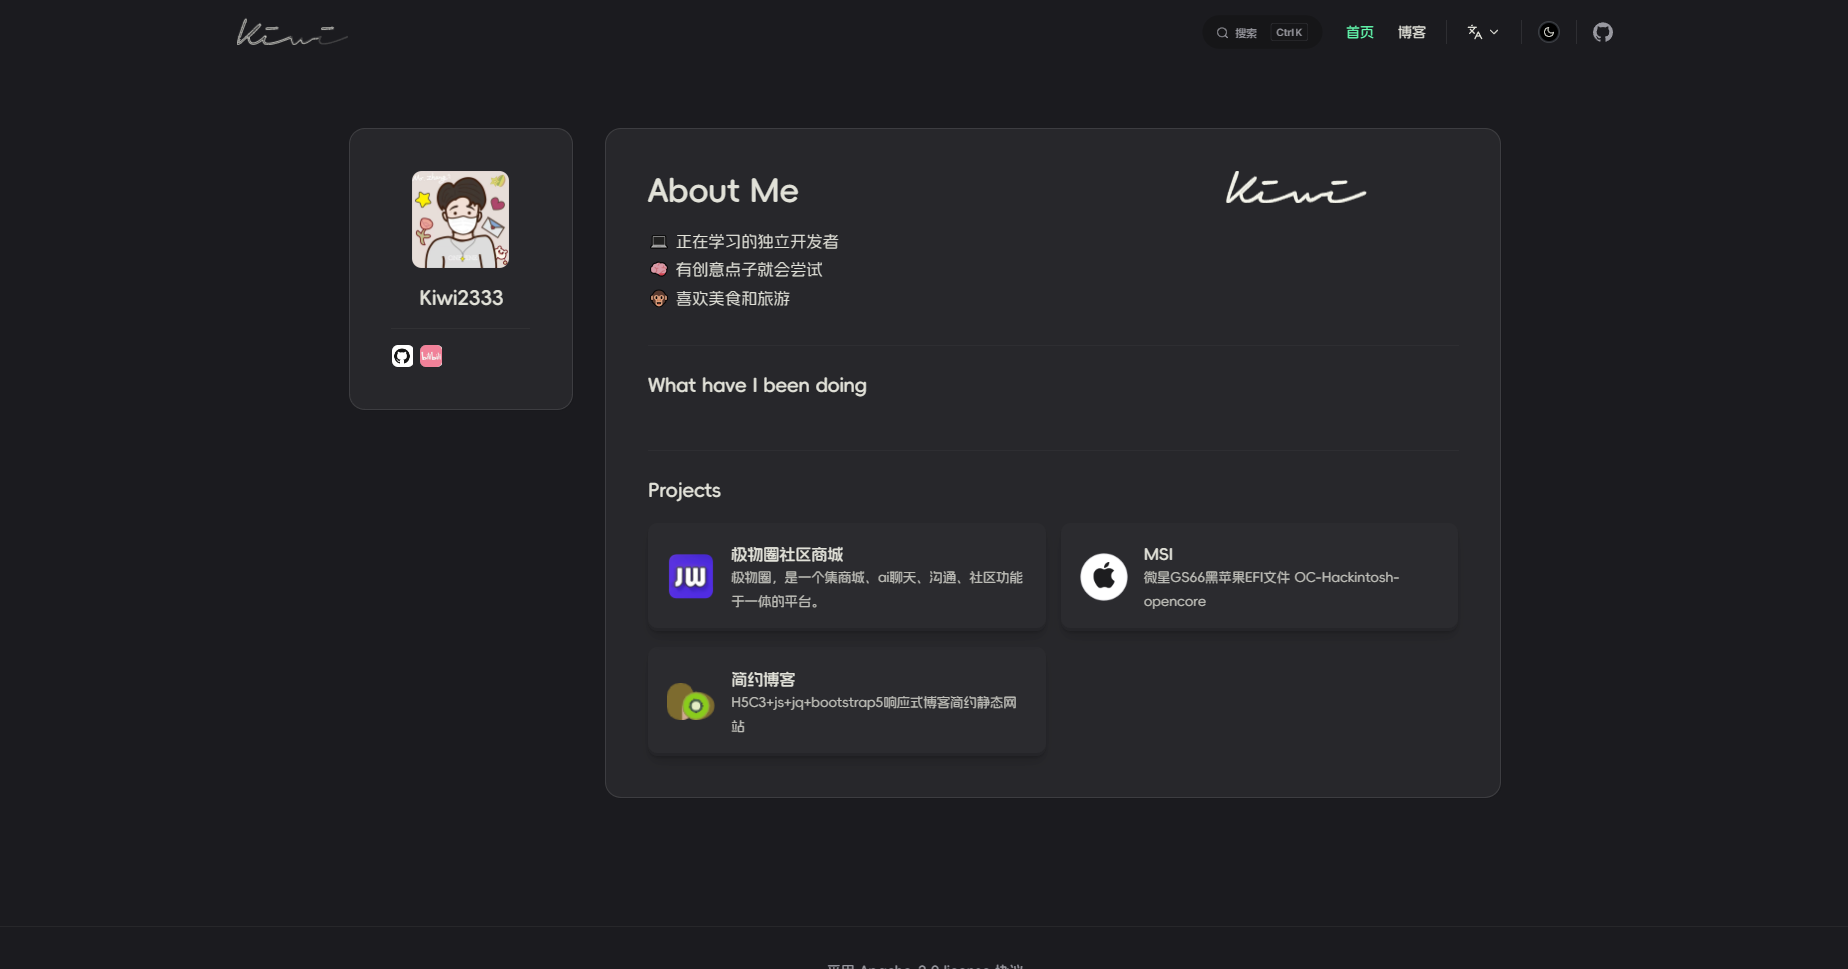
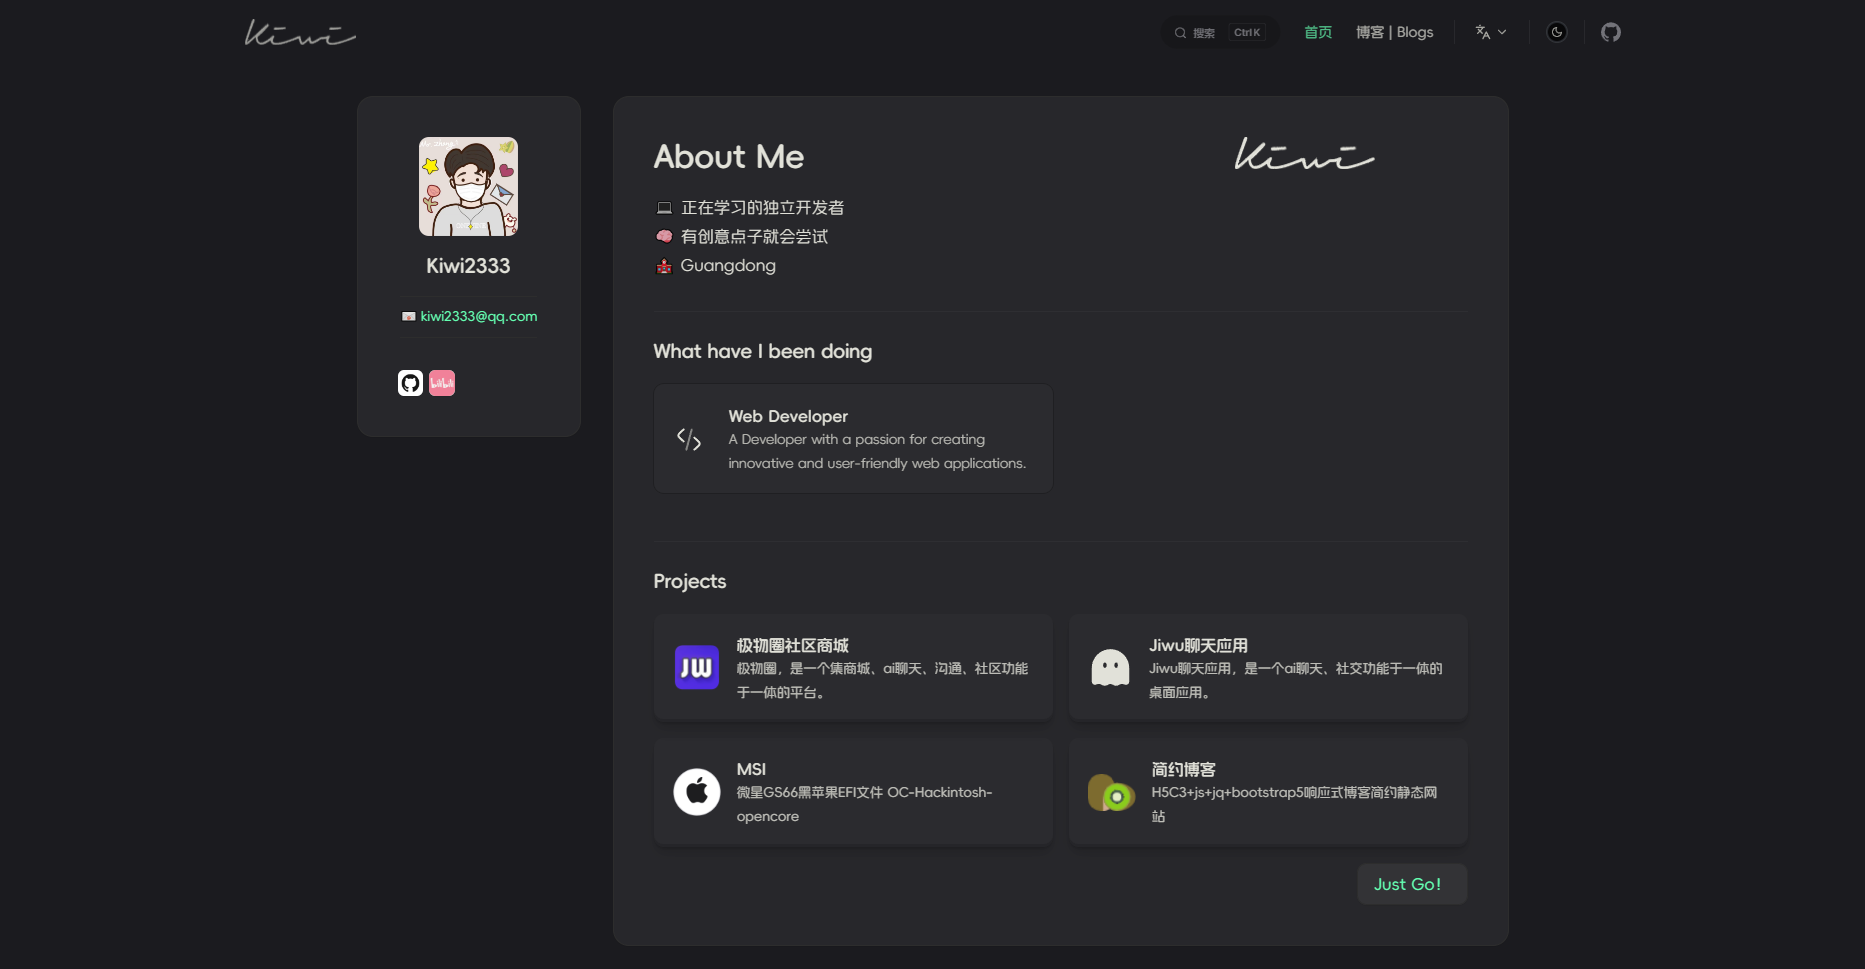
image2.png

diff --git a/docs/.vitepress/theme/style/custom.scss b/docs/.vitepress/theme/style/custom.scss
@@ -37,7 +37,7 @@ html:hover .VPNav {
 #VPContent .VPHero.has-image.VPHomeHero .main {
   & > h1 {
     --lv: 0;
-    --delay: 120ms;
+    --delay: 100ms;
     --start: 0ms;
     animation: keywords-enter 0.6s both;
     animation-delay: calc(var(--lv) * var(--delay) + var(--start));
@@ -51,7 +51,7 @@ html:hover .VPNav {
   }
 }
 #VPContent .VPHomeFeatures {
-  --delay: 120ms;
+  --delay: 100ms;
   --start: 0ms;
   .item:nth-child(1) {
     --lv: 3;
@@ -110,9 +110,10 @@ html:hover .VPNav {
 #VPContent .VPDocAsideOutline .content > *,
 #VPContent > div > div > div.content > div > main > div > *,
 #VPSidebarNav .VPSidebarItem > *,
+.prev-next > .pager,
 [data-fades] > * {
   --lv: 0;
-  --delay: 120ms;
+  --delay: 100ms;
   --start: 0ms;
   animation: keywords-enter 0.8s both 1;
   animation-delay: calc(var(--start) + var(--lv) * var(--delay));
@@ -130,7 +131,7 @@ html:hover .VPNav {
 
 [data-fade] {
   --lv: 0;
-  --delay: 120ms;
+  --delay: 100ms;
   --start: 0ms;
 }
 

diff --git a/docs/.vitepress/compnents/About.vue b/docs/.vitepress/compnents/About.vue
@@ -40,7 +40,7 @@ const projectList = ref<CardItem[]>([
 </script>
 
 <template>
-  <div class="content">
+  <div class="content" data-fade>
     <!-- 左侧 -->
     <div data-fades style="--delay: 20ms;" class="left card-default card-df">
       <div class="top">
@@ -71,7 +71,7 @@ const projectList = ref<CardItem[]>([
       </h1>
       <p>💻 正在学习的独立开发者</p>
       <p>🧠 有创意点子就会尝试</p>
-      <p>🏫 Guangdong</p>
+      <p>🏫 分享日常博客</p>
       <!-- 最近在做什么 -->
       <h2>What have I been doing</h2>
       <div data-fades class="project-list">

diff --git a/docs/前端/Js/1.ViewTansitionAPI使用.md b/docs/前端/Js/1.ViewTansitionAPI使用.md
@@ -5,7 +5,7 @@ layout: doc
 title: "ViewTansitionAPI使用"
 ---
 
-## ViewTansitionAPI使用
+# ViewTansitionAPI使用
 
 参考： <https://juejin.cn/post/7269388083342082107>
 
